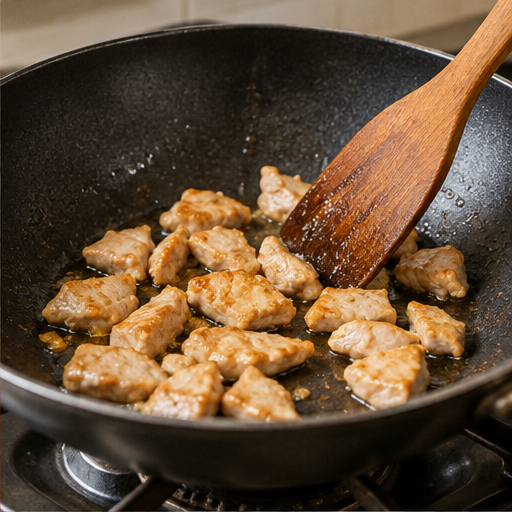
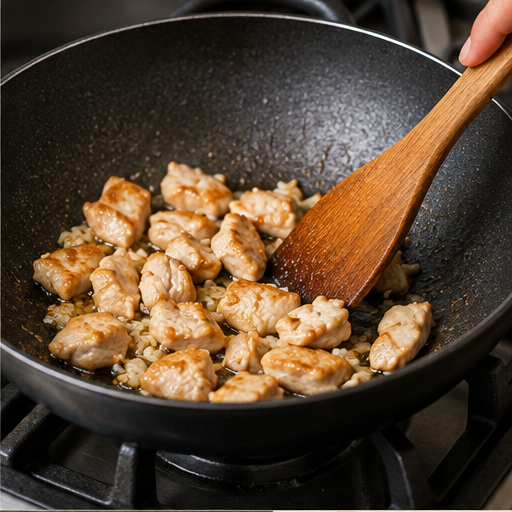
Phase 6B.3: use all four crops from the revised-prompt sheet
Replace the development sample with the reviewed 2026-10-19 sheet,
including its hero, which now fills the One-Page Zine hero frame.
Update the disclosure caption, tests and handover; dry-runs for the
notebook and journal styles pass. No paid request was made.

diff --git a/client/src/components/OnePageZine.jsx b/client/src/components/OnePageZine.jsx
@@ -3,12 +3,15 @@ import { Leaf, Utensils, MoveDownRight } from "lucide-react";
 import { getZineStyle } from "../data/zineStyles.js";
 import "./zine.css";
 const strings = values => Array.isArray(values) ? values.filter(value => typeof value === "string" && value.trim()) : [];
-function RecipeVisual({ recipe }) {
+function RecipeVisual({ recipe, asset }) {
   const [failed, setFailed] = useState(false);
-  const url = typeof recipe.imageUrl === "string" && !recipe.imageUrl.includes("zine-samples") &&
+  const photo = typeof recipe.imageUrl === "string" && !recipe.imageUrl.includes("zine-samples") &&
     /^(https?:\/\/|\/[^/])/.test(recipe.imageUrl) ? recipe.imageUrl : "";
+  // A reviewed hero asset takes precedence over existing photography.
+  const url = asset?.src || photo;
+  const alt = asset?.src ? asset.alt : recipe.title || "Recipe photograph";
   return <figure className="one-zine-visual">
-    {url && !failed ? <img src={url} alt={recipe.title || "Recipe photograph"} onError={() => setFailed(true)} /> :
+    {url && !failed ? <img src={url} alt={alt} onError={() => setFailed(true)} /> :
       <div className="one-zine-placeholder"><div className="one-zine-plate"><Utensils size={52} strokeWidth={1} aria-hidden="true" /><Leaf size={32} aria-hidden="true" /></div><span>Room for a delicious picture</span><small>Visual placeholder · no image generated</small></div>}
   </figure>;
 }
@@ -34,7 +37,7 @@ export default function OnePageZine({ recipe = {}, styleId = "collage", assets =
           {Number.isFinite(recipe.servings) && recipe.servings > 0 && <span>Serves {recipe.servings}</span>}</div>
         <MoveDownRight className="one-zine-arrow" size={48} strokeWidth={1.3} aria-hidden="true" />
       </header>
-      <RecipeVisual key={recipe.imageUrl || "placeholder"} recipe={recipe} />
+      <RecipeVisual key={assets?.hero?.src || recipe.imageUrl || "placeholder"} recipe={recipe} asset={assets?.hero} />
     </div>
     {typeof recipe.description === "string" && recipe.description.trim() && <section className="one-zine-about"><h3>About the dish</h3><p>{recipe.description}</p></section>}
     <div className="one-zine-body">

diff --git a/client/src/components/ZineSamplePreview.jsx b/client/src/components/ZineSamplePreview.jsx
@@ -15,7 +15,7 @@ export default function ZineSamplePreview({ recipe, view, styleId = "collage", a
     <div className="zine-heading"><span className="zine-label">Local prototype · no AI generation</span><h1 id="zine-heading" tabIndex={-1}>Your One-Page Zine</h1><p>One recipe. Three ways to tell its story.</p></div>
     {view === "intro" ? <section className="zine-intro"><Leaf size={46} aria-hidden="true" /><h2>A little paper. A lot of personality.</h2><p>Preview <strong>{recipe?.title}</strong> with every ingredient and instruction rendered as readable text. The page grows with your recipe.</p><button type="button" className="zine-primary" onClick={() => onNavigate("preview")}>Preview One-Page Zine <ArrowRight size={18} aria-hidden="true" /></button></section> : <OnePageZine recipe={recipe} styleId={styleId} assets={assetSample?.assets} />}
     <p className="zine-caption">{assetSample
-      ? `Development sample: AI-generated artwork manually reviewed on ${assetSample.reviewedOn}, for ${assetSample.recipeTitle} only. Recipe facts are rendered as text; the hero image is not AI-generated.`
+      ? `Development sample: AI-generated artwork manually reviewed on ${assetSample.reviewedOn}, for ${assetSample.recipeTitle} only. All recipe facts are rendered as text, not taken from the images.`
       : "Local frontend preview. Existing recipe photography or a visual placeholder only. No personalized AI image has been generated."}</p>
     <button type="button" className="zine-secondary" onClick={onBackToRecipe}><ArrowLeft size={18} aria-hidden="true" />Back to Recipe</button>
   </main>;

diff --git a/client/src/data/zineAssetSamples.js b/client/src/data/zineAssetSamples.js
@@ -1,13 +1,14 @@
 // Development-only, manually reviewed Phase 6B.2 crops. Presentation only: each sample
 // depicts one specific dish and style, so it is shown only for that exact pairing.
-// The rejected hero crop is deliberately absent. See server/ZINE_ASSETS_POC.md.
+// All four crops come from one sheet so lighting and palette match. See server/ZINE_ASSETS_POC.md.
 const base = "/zine-assets/dev-samples/chicken-fried-rice-collage";
 export const zineAssetSamples = [
   { id: "chicken-fried-rice-collage", recipeTitle: "Chicken Fried Rice", styleId: "collage",
-    sourceReport: "assets-2026-10-15T13-34-52-969Z-beb5196f-dab4-42eb-9c48-f2c96ae52b69", reviewedOn: "2026-10-19",
+    sourceReport: "assets-2026-10-19T11-29-02-914Z-ecad0a78-65ae-4867-8cb2-8908f15db993", reviewedOn: "2026-10-19",
     assets: {
-      ingredients: { src: `${base}/ingredients.png`, alt: "Hand-drawn chicken, a bowl of rice and a dish of salt" },
-      cooking: { src: `${base}/cooking.png`, alt: "Pieces of chicken browning in a pan with a wooden spatula" },
+      hero: { src: `${base}/hero.png`, alt: "A bowl of rice with pieces of cooked chicken" },
+      ingredients: { src: `${base}/ingredients.png`, alt: "Hand-drawn chicken breast, a bowl of rice and a dish of salt" },
+      cooking: { src: `${base}/cooking.png`, alt: "Chicken pieces and rice cooking in a pan with a wooden spatula" },
       decoration: { src: `${base}/decoration.png`, alt: "" }
     } }
 ];

diff --git a/PROJECT_HANDOVER.md b/PROJECT_HANDOVER.md
@@ -92,14 +92,16 @@ Secrets are manually supplied in ignored `server/.env`, remain server-only, and 
 
 **Phase 6B.3 hybrid integration prototype — implemented 2026-10-19 (approved plan).**
 
-- Reviewed crops copied to `client/public/zine-assets/dev-samples/chicken-fried-rice-collage/` (cooking, ingredients, decoration; the rejected hero is absent). Originals in `server/generated-zines/` are untouched.
+- Reviewed crops copied to `client/public/zine-assets/dev-samples/chicken-fried-rice-collage/` (initially cooking, ingredients and decoration from the first sheet; since replaced by all four crops of the second sheet, below). Originals in `server/generated-zines/` are untouched.
 - `client/src/data/zineAssetSamples.js` holds the sample manifest and `developerAssetSample`. Samples appear only when all hold: Vite dev mode, `?zineAssets=sample`, style `collage`, and recipe title "Chicken Fried Rice" (case-insensitive). Otherwise the Zine is unchanged.
 - `OnePageZine` accepts optional `assets`: ingredients crop above the ingredient list, cooking crop above the steps, decoration as an edge-faded band above the footer (`alt=""`, `aria-hidden`). The hero keeps the existing photo/placeholder. The preview caption discloses reviewed AI artwork when a sample is shown.
 - `zine-assets/**` is excluded from the PWA precache in `client/vite.config.js`.
 - Verified: 30 client tests pass. In the browser, a different saved recipe (with the flag and collage) showed no samples; the Chicken Fried Rice layout was checked by rendering the real preview component with the fixture recipe, at desktop (~730px) and 375px widths, with no horizontal overflow. The logged-in account has no saved Chicken Fried Rice, so the full click-through path with a real saved record was not exercised.
 - Note: running the client tests starts a Vite instance that re-optimizes `client/node_modules/.vite`; an already-running dev server may then return `504 Outdated Optimize Dep` until reloaded or restarted.
 
-Hero prompt revision (2026-10-19): the user chose to refine the hero. The approved prompt changes, a mocked test and a free collage dry-run are done (see "Hero prompt revision" in `server/ZINE_ASSETS_POC.md`). The user then ran one live collage sheet with the revised prompt (2026-10-19T11:29Z, estimate USD 0.016575, not billed cost). Review: all four crops usable, hero now free of egg and sauce colouring, though food quadrants are plainer than the first sheet (see "Second live result" in `server/ZINE_ASSETS_POC.md`). **Next, decided with the user:** whether to swap the dev sample to the new sheet (adding the hero) and/or test other styles; each further paid run needs separate authorization. Do not run another paid request, expose a generation endpoint, or add persistence without approval.
+Hero prompt revision (2026-10-19): the user chose to refine the hero. The approved prompt changes, a mocked test and a free collage dry-run are done (see "Hero prompt revision" in `server/ZINE_ASSETS_POC.md`). The user then ran one live collage sheet with the revised prompt (2026-10-19T11:29Z, estimate USD 0.016575, not billed cost). Review: all four crops usable, hero now free of egg and sauce colouring, though food quadrants are plainer than the first sheet (see "Second live result" in `server/ZINE_ASSETS_POC.md`). The development sample now uses all four crops from this second sheet (one generation, consistent lighting and palette), including the AI hero in the taped hero frame; the hero caption no longer claims the hero is non-AI. Client tests (30) pass, and the layout was checked in the browser at desktop and 375px with no horizontal overflow. The first sheet's crops remain in git history (`75c1e22`) and in `server/generated-zines/`.
+
+**Next:** validate the revised prompt beyond collage with one `notebook` and one `journal` sheet. Both dry-runs pass (3112 and 3108 prompt characters; about USD 0.017 each, unverified). Each is a separate paid request that the user must run in an interactive terminal and confirm; then review every crop as before. Do not run another paid request, expose a generation endpoint, or add persistence without approval.
 
 ## New Claude Code session checklist
 
